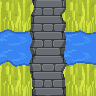
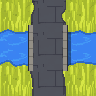
Glory of Rome: river bridges carry the road between parapets; treasure-cache vistas per province (#142)
* Glory of Rome: treasure-cache vistas, one per province, for the chest's choice (#140)

* romeart: bridge, river bridges built from a set's installed road and river tiles

* Glory of Rome: river bridges carry the road across between parapets, in every province

diff --git a/tools/romeart.py b/tools/romeart.py
@@ -10,6 +10,7 @@
     slots <sprites> <out>  search rock-slot arrangements for a mountain lattice
     rebank <old> <new> <dir> <prefix>  river bands carried onto a new interior
     fieldgrade <src> <out> --window x,y,w,h ...  a field painting derived from another
+    bridge <tiles> <out>   river bridges from a set's installed road and river tiles
     icon [outdir]          the launcher icon, from the title art (128/512/1024)
     prompts                rebuild docs/ROME-ART.md from art/jobs/*.json
 
@@ -2090,18 +2091,12 @@ def cmd_zone(argv):
             if os.path.exists(p):
                 Image.open(p).save(os.path.join(out, f))
 
-    # 6. The two river bridges: the pack's own paving swept across a river piece.
-    for deck, over, name in (("bridge_v.png", "river_ew.png", "bridge_river_ns.png"),
-                             ("bridge_h.png", "river_ns.png", "bridge_river_ew.png")):
-        if not os.path.isdir(os.path.join(prim, "river")):
-            break
-        dst = os.path.join(stage, "bridge_" + name[14:16])
-        _roadtile(["romeart", os.path.join(prim, "river"), dst, "--sweep",
-                   "--fill", os.path.join(PACK, "art", "tiles", deck),
-                   "--grass", os.path.join(stage, "rivers", over),
-                   "--rim", "3", "--rim-shade", "0.7"])
-        piece = "road_ns.png" if name.endswith("ns.png") else "road_ew.png"
-        Image.open(os.path.join(dst, piece)).save(os.path.join(out, name))
+    # 6. The two river bridges: the road carried across the river between
+    #    parapets, its shadow on the water (cmd_bridge, style c).
+    if os.path.exists(os.path.join(out, "river_ns.png")) and os.path.exists(os.path.join(out, "road_ew.png")):
+        cmd_bridge([out, os.path.join(stage, "bridges")])
+        for name in ("bridge_river_ew.png", "bridge_river_ns.png"):
+            Image.open(os.path.join(stage, "bridges", "c", name)).save(os.path.join(out, name))
 
     # 7. The river mouths: east built, west its mirror (as Italia's were).
     if os.path.exists(os.path.join(out, "water_edge_02.png")):
@@ -2427,6 +2422,83 @@ art/fields/BUILD.md). Deterministic: the same call gives the same file.
     print(f"{out}: {w}x{h} from ({x},{y}) flip {opt['--flip'] or 'none'}; mean RGB {int(m[2])},{int(m[1])},{int(m[0])}")
 
 
+def cmd_bridge(argv):
+    """River bridges built from a set's installed road and river tiles.
+
+    python3 tools/romeart.py bridge <tiles-dir> <out-dir>
+
+Writes <out-dir>/<style>/bridge_river_ew.png and bridge_river_ns.png for
+three styles, each one step on from the last:
+  a  the road's own pixels laid over the river piece (road_ew over river_ns,
+     road_ns over river_ew), so the deck is the road's cobbles and its ends
+     are the road's edge: it joins the road by construction.
+  b  over the river, plus 4 px of bank each side, the road's ragged edge
+     gives way to a straight deck between two 5 px parapets on the road's
+     outer edge: the road's stone mixed 40/60 with pale travertine, a dark
+     outer line and a joint every 8 px.
+  c  b, and the deck's shadow on the water below it (right of it, crossing
+     north-south): 3 px at 0.6.
+Reads grass.png, road_ew/ns.png and river_ns/ew.png from <tiles-dir> (the
+pack's art/tiles for Italia, art/tiles/<zone> for the others). Deterministic.
+    """
+    if len(argv) < 2:
+        sys.exit("usage: romeart.py bridge <tiles-dir> <out-dir>")
+    import numpy as np
+    tiles, out = argv[0], argv[1]
+    load = lambda n: np.array(Image.open(os.path.join(tiles, n)).convert("RGBA")).astype(np.int32)
+    G = load("grass.png")
+    P, LINE, SHADOW, BANK = 5, 0.55, 0.6, 4
+    PALE = (196, 188, 168)    # a warm travertine, mixed 60/40 into the road's stone
+
+    def build(road, river, grass, style):
+        # Everything below is for a deck running east-west; north-south is
+        # built transposed and turned back.
+        on_road = (road[:, :, :3] != grass[:, :, :3]).any(axis=2)
+        wet = (river[:, :, :3] != grass[:, :, :3]).any(axis=2)
+        im = river.copy()
+        im[on_road] = road[on_road]
+        if style == "a":
+            return im
+        cols = np.where(wet.any(axis=0))[0]
+        x0, x1 = max(0, cols.min() - BANK), min(95, cols.max() + BANK)
+        tops = [np.where(on_road[:, x])[0].min() for x in range(x0, x1 + 1)]
+        bots = [np.where(on_road[:, x])[0].max() for x in range(x0, x1 + 1)]
+        # The parapets stand on the road's outer edge; between them the deck
+        # is the road's cobbles, borrowed from the road's solid middle where
+        # its ragged edge dipped.
+        t, b = min(tops) - 1, max(bots) + 1
+        mt, mb = max(tops), min(bots)
+        stone = road[on_road][:, :3].mean(axis=0)
+        light = np.clip(stone * 0.4 + np.array(PALE) * 0.6, 0, 255)
+        for x in range(x0, x1 + 1):
+            im[:t, x] = river[:t, x]
+            im[b + 1:, x] = river[b + 1:, x]
+            for y in range(t + P, b - P + 1):
+                if not on_road[y, x]:
+                    im[y, x] = road[min(max(y, mt), mb), x]
+            for y0, outer in ((t, t), (b - P + 1, b)):
+                for y in range(y0, y0 + P):
+                    c = light * (0.8 if x % 8 == 0 else 1.0)
+                    if y == outer:
+                        c = stone * LINE
+                    im[y, x, :3] = c.astype(np.int32)
+            if style == "c":
+                for y in range(b + 1, min(96, b + 4)):
+                    if wet[y, x]:
+                        im[y, x, :3] = (river[y, x, :3] * SHADOW).astype(np.int32)
+        return im
+
+    for style in "abc":
+        d = os.path.join(out, style)
+        os.makedirs(d, exist_ok=True)
+        ew = build(load("road_ew.png"), load("river_ns.png"), G, style)
+        tr = lambda a: a.transpose(1, 0, 2)
+        ns = tr(build(tr(load("road_ns.png")), tr(load("river_ew.png")), tr(G), style))
+        for name, a in (("bridge_river_ew.png", ew), ("bridge_river_ns.png", ns)):
+            Image.fromarray(a.astype(np.uint8), "RGBA").save(os.path.join(d, name))
+    print(f"bridges a, b, c -> {out}")
+
+
 COMMANDS = {
     "zone": cmd_zone, "install": cmd_install, "sheet": cmd_sheet,
     "icon": cmd_icon,
@@ -2434,6 +2506,7 @@ COMMANDS = {
     "slots": cmd_slots,
     "rebank": cmd_rebank,
     "fieldgrade": cmd_fieldgrade,
+    "bridge": cmd_bridge,
     "prompts": lambda a: _artprompts(["romeart"] + a),
     "grass": lambda a: _grassvar(["romeart"] + a),
     "stitch": lambda a: _stitch96(["romeart"] + a),

diff --git a/docs/ROME-ART.md b/docs/ROME-ART.md
@@ -3,7 +3,7 @@
 **Generated** by `tools/romeart.py prompts` from `art/jobs/*.json`. Do not
 edit by hand: change the job file and run the tool again.
 
-364 jobs. A job with a **Pack path** has produced that file in the pack; a
+368 jobs. A job with a **Pack path** has produced that file in the pack; a
 job without one has produced a step towards it (the still an animation starts
 from). The routes themselves -- which engine, which settings, and why -- have
 been in `docs/ART-PIPELINE.md`; each job's run history has been in its own
@@ -1399,6 +1399,34 @@ been in `docs/ART-PIPELINE.md`; each job's run history has been in its own
 - **Pack path:** `art/scenes/rubicon.png`
 - **prompt:** a Roman legion far in the distance marching in a long column over a low wooden bridge across a small river, standards raised, green hills and poplars of northern Italy, late afternoon light, seen from a hillside above, the river and the bridge small in a wide landscape
 - **Settings:** `bypass_prompt_expansion=true`, `figure=false`, `height=102`, `raw_only=true`, `seed=6501`, `style=rd_pro__default`, `target=[240, 102]`, `width=240`
+
+### scene_treasure_africa
+
+- **Engine:** Retro Diffusion rd_pro__default (240x102, seed 7905)
+- **Pack path:** `art/scenes/treasure_africa.png`
+- **prompt:** a hidden treasure cache uncovered in the sand among red sandstone rocks at the foot of a lone date palm, a half-buried wooden chest burst open with Roman gold coins and silver vessels spilling out, deep blue sky, long purple shadows, rich warm late-afternoon light, rolling orange dunes beyond, no people
+- **Settings:** `bypass_prompt_expansion=true`, `figure=false`, `height=102`, `raw_only=true`, `seed=7905`, `style=rd_pro__default`, `target=[240, 102]`, `width=240`
+
+### scene_treasure_galliae
+
+- **Engine:** Retro Diffusion rd_pro__default (240x102, seed 7902)
+- **Pack path:** `art/scenes/treasure_galliae.png`
+- **prompt:** a hidden treasure cache uncovered among mossy boulders and ferns at the foot of an old oak in a dark Gaulish forest, a half-buried wooden chest burst open with Roman gold coins and silver vessels spilling out, shafts of grey-green light, no people
+- **Settings:** `bypass_prompt_expansion=true`, `figure=false`, `height=102`, `raw_only=true`, `seed=7902`, `style=rd_pro__default`, `target=[240, 102]`, `width=240`
+
+### scene_treasure_italia
+
+- **Engine:** Retro Diffusion rd_pro__default (240x102, seed 7901)
+- **Pack path:** `art/scenes/treasure_italia.png`
+- **prompt:** a small hidden treasure cache uncovered among rocks and long grass at the foot of an old oak, a half-buried wooden chest burst open with Roman gold coins and a few silver vessels spilling out, dappled late afternoon light, a quiet Italian hillside beyond, no people
+- **Settings:** `bypass_prompt_expansion=true`, `figure=false`, `height=102`, `raw_only=true`, `seed=7901`, `style=rd_pro__default`, `target=[240, 102]`, `width=240`
+
+### scene_treasure_oriens
+
+- **Engine:** Retro Diffusion rd_pro__default (240x102, seed 7904)
+- **Pack path:** `art/scenes/treasure_oriens.png`
+- **prompt:** a hidden treasure cache uncovered among the fallen columns of a ruined eastern temple, a half-buried wooden chest burst open with Roman gold coins and silver vessels spilling out, dry hills and a distant walled city at dusk, no people
+- **Settings:** `bypass_prompt_expansion=true`, `figure=false`, `height=102`, `raw_only=true`, `seed=7904`, `style=rd_pro__default`, `target=[240, 102]`, `width=240`
 
 ## Screens and UI
 

diff --git a/art/primitives/galliae/BUILD.md b/art/primitives/galliae/BUILD.md
@@ -20,9 +20,10 @@ What `zone` has done with them, in order:
                        and the fewest grass pixels showing (36)
     road_*, river_*    romeart.py sweep --rim 2 --rim-shade 0.8 over grass.png; the rivers
                        again over forest.png and mountain.png (river_forest_*, river_mountain_*)
-    bridge_river_ns    sweep --fill the pack's bridge_v.png over river_ew.png, --rim 3
-                       --rim-shade 0.7, taking road_ns; bridge_river_ew is bridge_h.png over
-                       river_ns.png, taking road_ew
+    bridge_river_*     romeart.py bridge over the built road and river pieces, style c: the
+                       road's own cobbles across the river between pale parapets, a shadow
+                       on the water (2026-10-02; Africa and Oriens the same, Italia from
+                       its installed tiles)
     river_mouth_e      romeart.py mouth over water_edge_02.png; river_mouth_w is its mirror
 
 Galliae has had no desert, so the desert names have fallen back to the master set. The *_teal,

diff --git a/docs/ART-PIPELINE.md b/docs/ART-PIPELINE.md
@@ -196,6 +196,14 @@ generated from.
   (`rd_pro__topdown`), no background removal, no water in the picture: the
   original tile has had none, and a transparent deck over water has not come
   back usable.
+- **River bridges** (`bridge_river_ew`, `bridge_river_ns`) — not generated.
+  `tools/romeart.py bridge <tiles-dir> <out>` has built them from a set's
+  installed `road_*`, `river_*` and `grass` tiles: the road's own pixels laid
+  across the river piece, so the deck joins the road by construction; over
+  the water a straight deck between two 5 px parapets (the road's stone mixed
+  40/60 with pale travertine, a dark outer line, a joint every 8 px); and the
+  deck's shadow on the water, 3 px at 0.6. Style `c` has been installed in
+  every province (2026-10-02); `zone` runs it as its sixth step.
 - **Terrain edges** — not generated. `tools/romeart.py edges` has
   composited each from the installed base and grass tiles: the original
   48x34 edge tile under `art/reference/edges/` has been read as a shape (each
